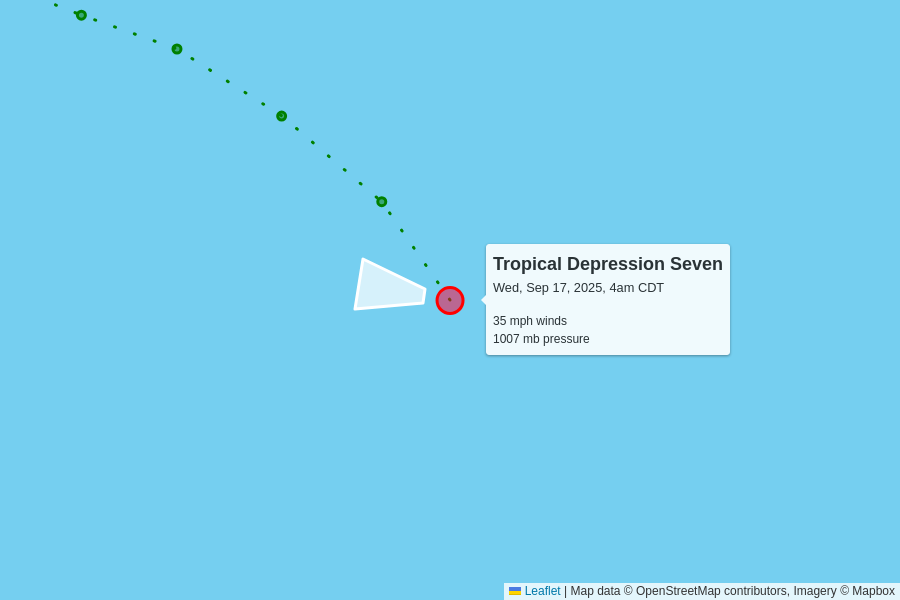
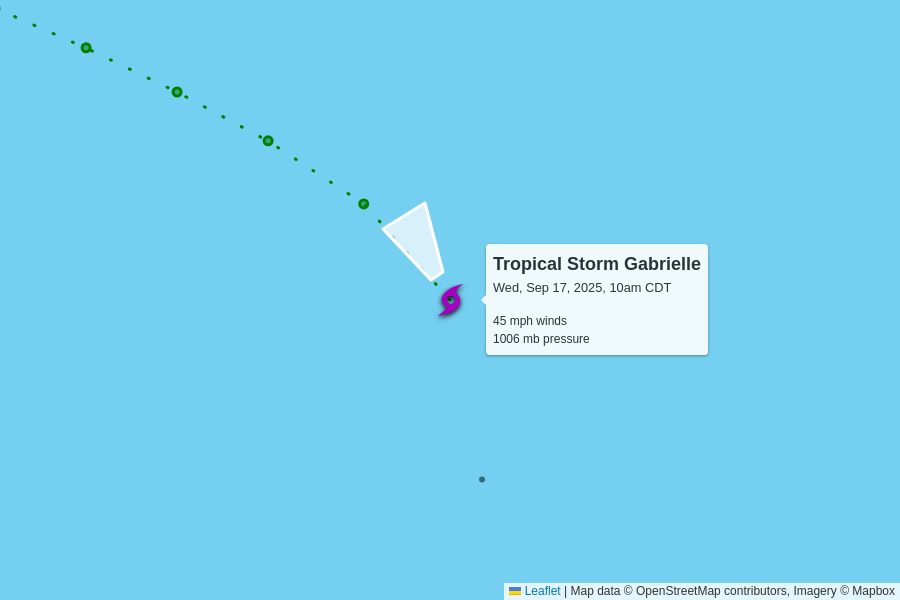
automatic update

diff --git a/docs/index.html b/docs/index.html
@@ -101,8 +101,8 @@
       <tr>
         <td colspan="6" class="storm category-0" >
           <h2>
-            Tropical Depression Seven
-            <p class="updated">last updated <span data-time>2025-09-17T09:00:00.000Z</span></p>
+            Tropical Storm Gabrielle
+            <p class="updated">last updated <span data-time>2025-09-17T15:00:00.000Z</span></p>
           </h2>
         </td>
       </tr>
@@ -117,15 +117,15 @@
       </tr>
       <tr>
         <td class="spacer"></td>
-        <td>35 mph</td>
-        <td>1007 mb</td>
+        <td>45 mph<br>+10 mph since last update</td>
+        <td>1006 mb<br>-1 mb since last update</td>
         <td>
-          13 mph to the west
+          22 mph to the north-northwest
           <br/>
-          <span style="display: inline-block; font-size: 1.5em; transform: rotate(280deg);">↑</span>
+          <span style="display: inline-block; font-size: 1.5em; transform: rotate(330deg);">↑</span>
         </td>
         <td><a href="https://raw.githubusercontent.com/mgwalker/atlantic-hurricanes/main/data/csv/AL072025.csv">AL072025.csv</a></td>
-        <td><a href="https://www.nhc.noaa.gov/archive/2025/SEVEN.shtml?">NHC advisories</a></td>
+        <td><a href="https://www.nhc.noaa.gov/archive/2025/GABRIELLE.shtml?">NHC advisories</a></td>
       </tr>
       <tr id="storm_AL072025" >
         <td class="spacer">
